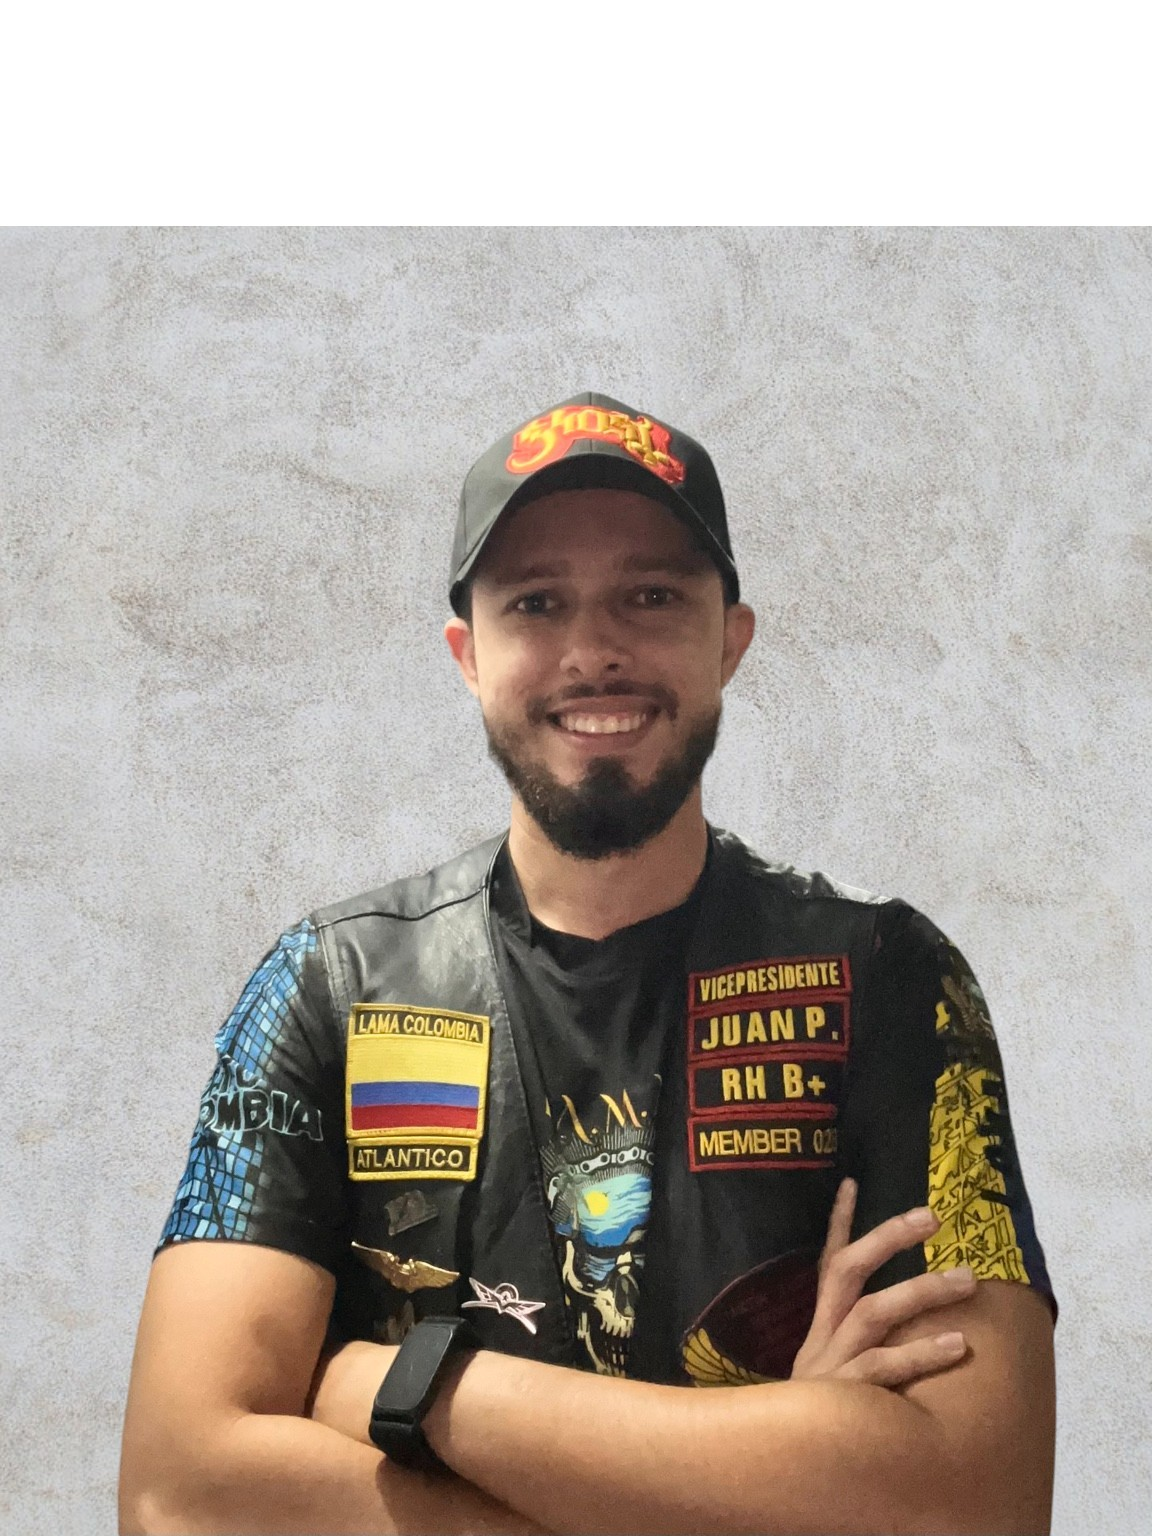
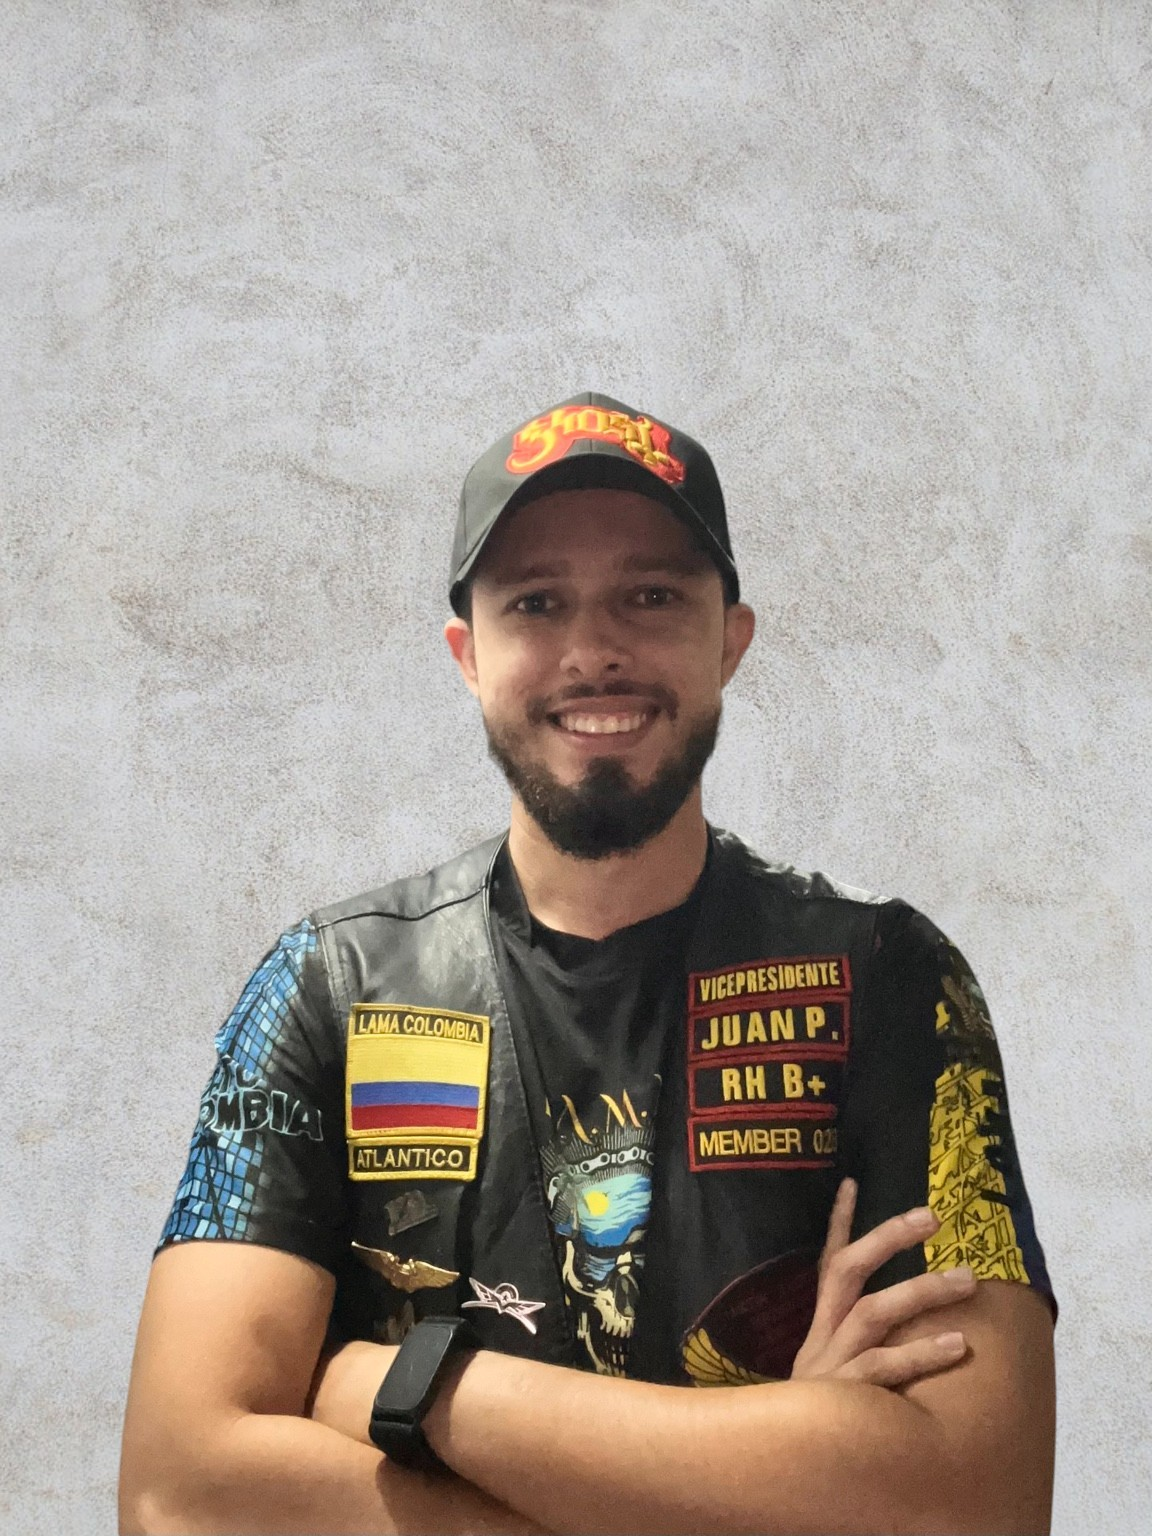
Fotos automaticas en Galeria desde carpeta assets/galeria

Changed region(s): [[0.0, 0.0, 1.0, 0.1562]]

diff --git a/js/galeria.js b/js/galeria.js
@@ -1,7 +1,47 @@
+const EXTENSIONES_IMAGEN = ["jpg", "jpeg", "png", "gif", "webp"];
+
+function nombreBonito(archivo) {
+  const sinExtension = archivo.replace(/\.[^.]+$/, "");
+  return sinExtension
+    .replace(/[-_]+/g, " ")
+    .trim()
+    .replace(/\b\w/g, (letra) => letra.toUpperCase());
+}
+
+async function fetchFotosCarpeta() {
+  const { githubOwner, githubRepo, galeriaCarpeta } = CONFIG;
+  if (!githubOwner || !githubRepo || !galeriaCarpeta) return [];
+
+  const url = `https://api.github.com/repos/${githubOwner}/${githubRepo}/contents/${galeriaCarpeta}`;
+  const response = await fetch(url, { cache: "no-store" });
+  if (!response.ok) return [];
+
+  const archivos = await response.json();
+  if (!Array.isArray(archivos)) return [];
+
+  return archivos
+    .filter((a) => a.type === "file")
+    .filter((a) => EXTENSIONES_IMAGEN.includes((a.name.split(".").pop() || "").toLowerCase()))
+    .sort((a, b) => b.name.localeCompare(a.name))
+    .map((a) => ({
+      Evento: nombreBonito(a.name),
+      Fecha: "",
+      Tipo: "foto",
+      URL: a.download_url,
+      Miniatura: a.download_url,
+    }));
+}
+
 async function renderGaleria() {
   const grid = document.getElementById("galeriaGrid");
   try {
-    const items = await fetchSheet(CONFIG.sheets.galeria);
+    const [itemsHoja, fotosCarpeta] = await Promise.all([
+      fetchSheet(CONFIG.sheets.galeria).catch(() => []),
+      fetchFotosCarpeta().catch(() => []),
+    ]);
+
+    const items = [...fotosCarpeta, ...itemsHoja];
+
     if (items.length === 0) {
       grid.innerHTML = '<p class="state">Aún no hay fotos ni videos.</p>';
       return;

diff --git a/js/config.js b/js/config.js
@@ -23,4 +23,10 @@ const CONFIG = {
     galeria: "data/galeria.csv",
     fundadores: "data/fundadores.csv",
   },
+
+  // Repositorio de GitHub donde vive este sitio. Se usa para leer automáticamente
+  // los archivos que subas a assets/galeria/, sin necesidad de una hoja de datos.
+  githubOwner: "lamapuertocolombia",
+  githubRepo: "lamapuertocolombia.github.io",
+  galeriaCarpeta: "assets/galeria",
 };

diff --git a/README.md b/README.md
@@ -40,7 +40,8 @@ Notas sobre columnas:
 - `Stock` es la cantidad disponible del producto (si no tiene variantes/tallas). Si el producto sí tiene tallas, el stock de cada una va dentro de `Opciones` como tercer valor: `S:80000:3|M:80000:4` (talla:precio:stock). Cuando el stock de una variante llega al umbral definido en `js/config.js` (`stockBajoUmbral`, por defecto 5) o menos, se muestra "¡Últimas unidades!"; en 0 se muestra "Agotado" y se bloquea el botón de compra.
 - `Estado` en Pilotos debe ser exactamente: `Full Color`, `Prospecto`, `En Licencia` o `Retirado`.
 - `Cargo` en Pilotos es opcional. Si un piloto tiene cargo (ej. `Presidente`, `Vicepresidente`, `Tesorero`), aparece en la sección "Junta Directiva" en vez de en la lista general de pilotos.
-- `Tipo` en Galería debe ser `foto` o `video`.
+- `Tipo` en Galería debe ser `foto` o `video`. La hoja de Galería es solo para **videos** (pega el link de YouTube/Facebook) y fotos que quieras describir con evento/fecha. Para fotos simples, mejor usa la carpeta automática de abajo.
+- **Fotos automáticas de Galería**: sube el archivo directo a la carpeta `assets/galeria/` del repositorio (por la web de GitHub: entra a esa carpeta → "Add file" → "Upload files"). Aparece solo en la página de Galería, usando el nombre del archivo como título (ej. `rodada-santa-veronica.jpg` se muestra como "Rodada Santa Veronica"). Si nombras los archivos empezando con la fecha (ej. `2026-08-15-aniversario.jpg`), se ordenan de más reciente a más antiguo automáticamente.
 - `Foto` e `Imagen` tienen dos formas de funcionar:
   1. **Pegando un link** (Imgur, o cualquier link directo de imagen; Google Drive suele fallar, mejor evitarlo).
   2. **Sin pegar ningún link**: solo sube el archivo de foto a la carpeta correspondiente del proyecto, con el nombre exacto que le corresponde, y aparece automático sin tocar la hoja:
